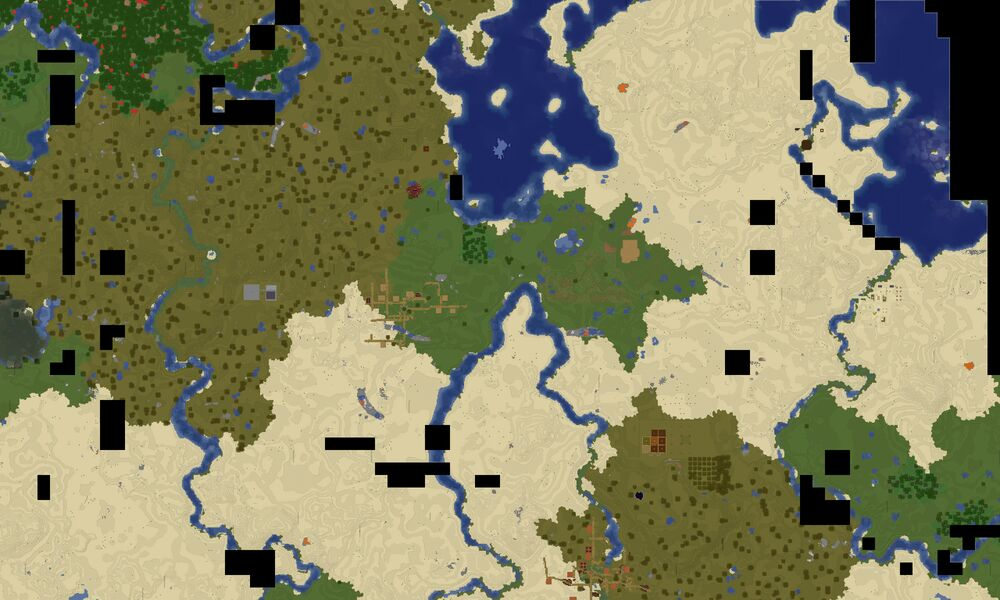
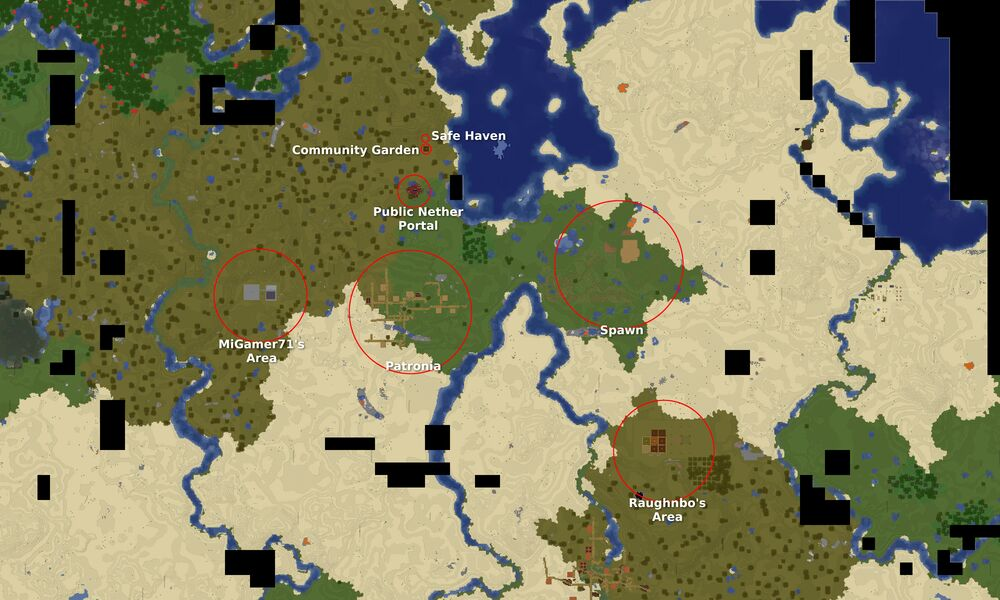
Map update: Spawn Map

diff --git a/patrons/survival/maps.rst b/patrons/survival/maps.rst
@@ -16,6 +16,15 @@ Our beautiful spawn shelter provides a place to lay your head and stay safe shou
 
 Head west to find our Settler's Village, or explore the vast world.
 
+.. |spawn_map| image:: ../../img/pinecraft-maps/survival/spawn_map.jpg
+    :width: 600px
+    :alt: Spawn Map
+    :target: https://raw.githubusercontent.com/Cat5TV/pinecraft-docs/main/img/pinecraft-maps/survival/spawn_map.webp
+
++--------------+
+| |spawn_map|  |
++--------------+
+
 .. |spawn| image:: ../../img/pinecraft-maps/survival/spawn.jpg
     :width: 600px
     :alt: Spawn
